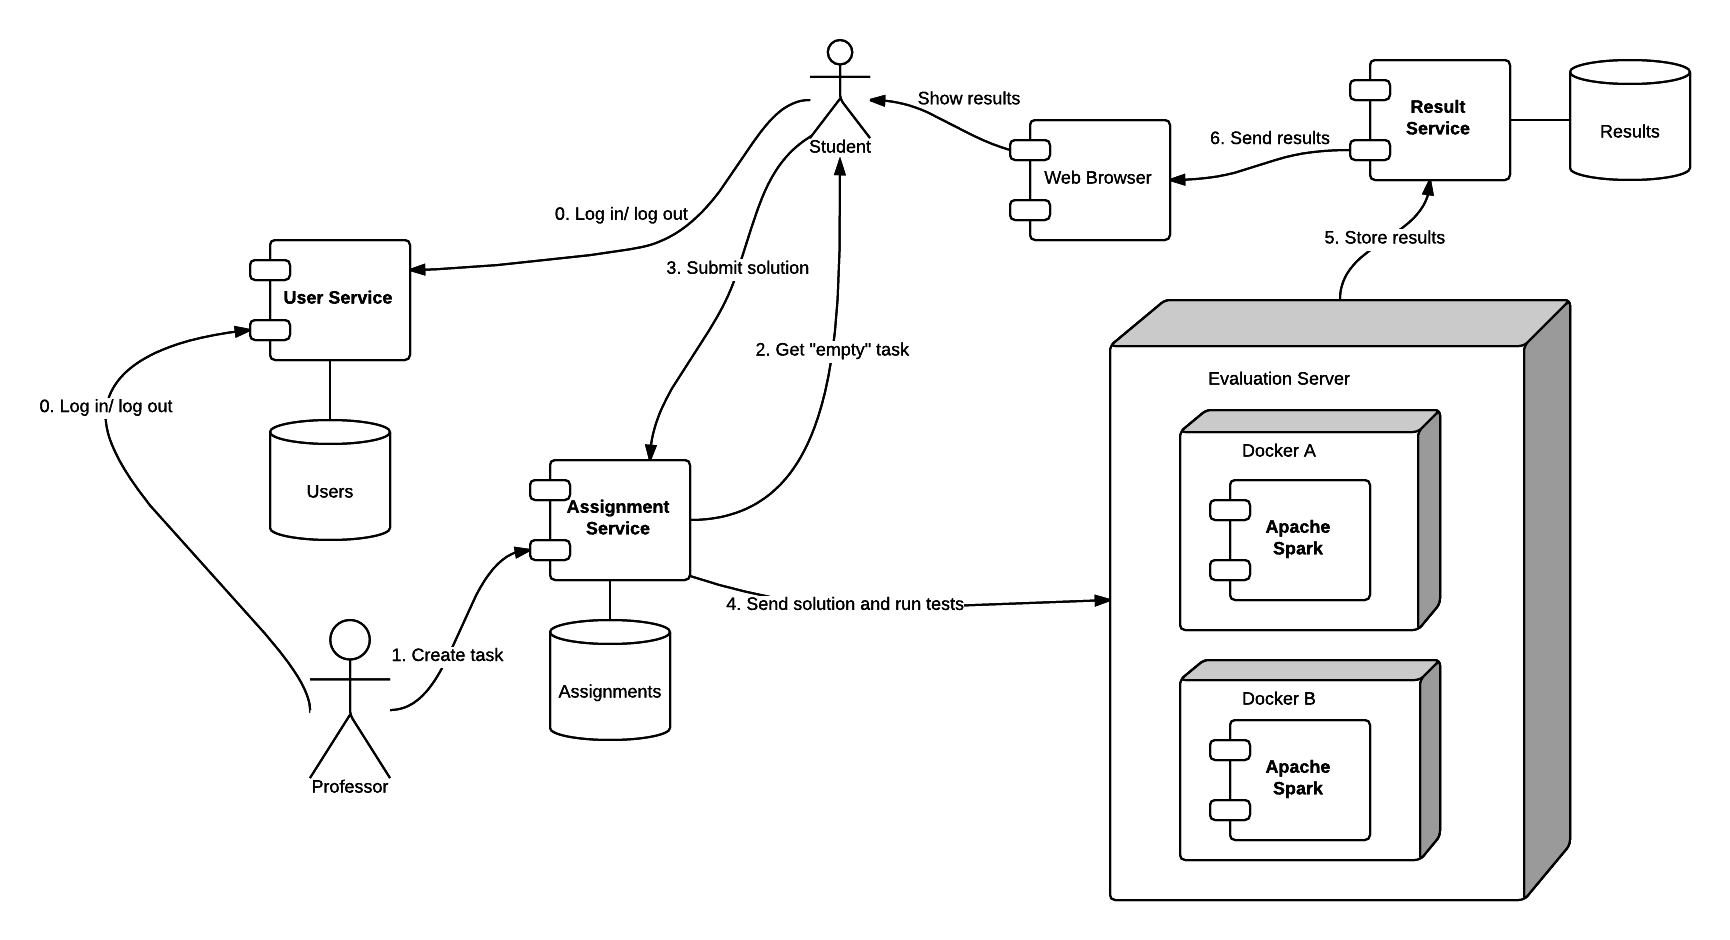
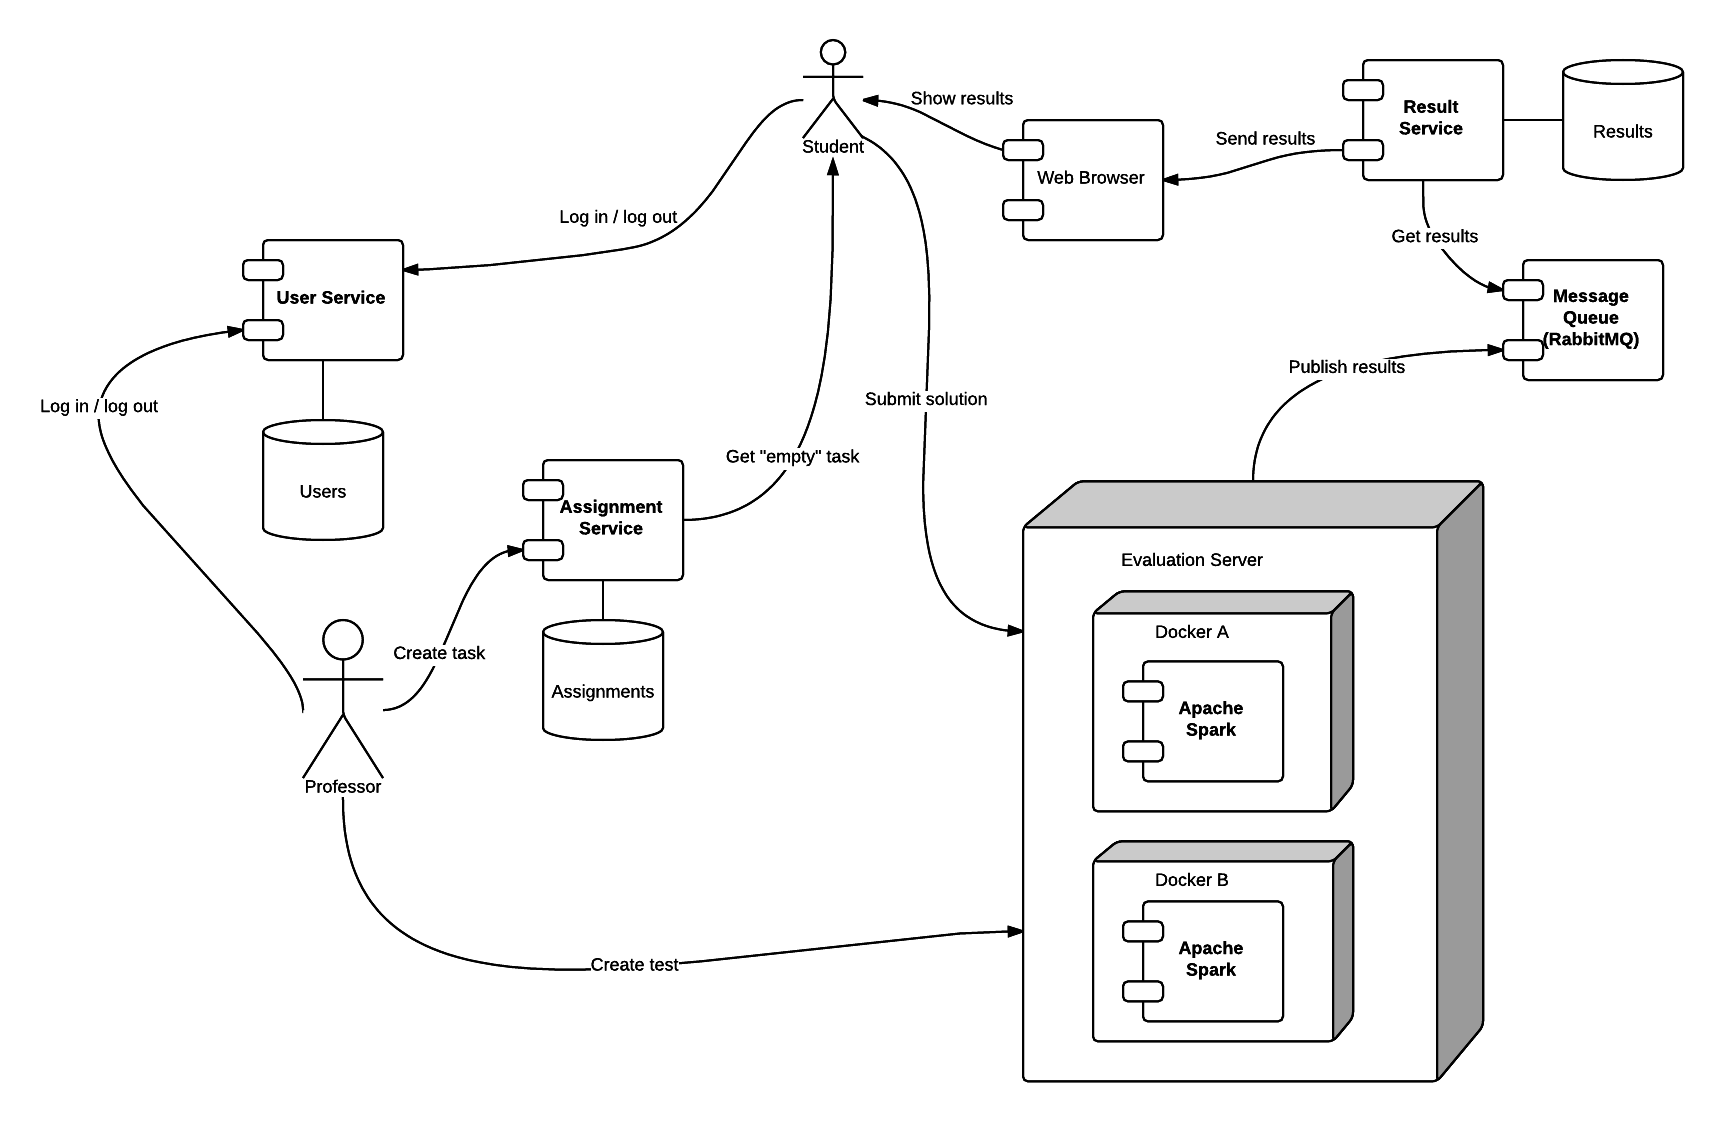
Docs upgraded

diff --git a/README.md b/README.md
@@ -14,7 +14,8 @@ Celem projektu Testify jest stworzenie platformy, która umożliwi udostępniani
 - Spring MVC
 - Spring Boot
 - Spring Cloud
-- Spring AOP
+- Vaadin
+- RabbitMQ
 - Apache Spark
 - Docker
 - PostgreSQL
@@ -31,16 +32,20 @@ Rys. 1 prezentuje planowaną architekturę systemu oraz komunikację klientów i
 
 Komunikacja klientów z systemem (logowanie, publikacja/pobranie zadań, wysyłanie rozwiązań, wyświetlenie wyników) odbywa się przy pomocy przeglądarki internetowej.
 
-Część serwerowa składa się z 3 mikroserwisów i Środowiska Wykonawczego (Evaluation server). Serwisy (każdy ma swoją bazę danych zaznaczoną w nawiasie):
+Część serwerowa składa się z 3 mikroserwisów, Środowiska Wykonawczego (Evaluation server) oraz Klienta. Serwisy (każdy ma swoją bazę danych zaznaczoną w nawiasie):
 - User service (PostgreSQL) - umożliwia logowanie do systemu, przydziela token sesji,
-- Assignment Service (MongoDB) - umożliwia dodawanie/pobieranie zadań oraz odbiera rozwiązania od Studenta,
+- Assignment Service (MongoDB) - umożliwia dodawanie/pobieranie zadań,
 - Result Service (PostgreSQL) - umożliwia pobieranie informacji o wynikach za zadania dla poszczególnych Studentów.
 
-Środowisko Wykonawcze to komponent odpowiedzialny za uruchamianie i ocenę rozwiązań (w postaci plików .jar) nadesłanych przez Studentów. Na nadesłanym kodzie wykonuje szereg operacji:
+Środowisko Wykonawcze to komponent odpowiedzialny za odbieranie rozwiązania od Studenta, uruchamianie i ocenę rozwiązań (w postaci plików .jar) nadesłanych przez Studentów. To tutaj również Prowadzący wysyła testy dla zadań. Na nadesłanym kodzie wykonuje szereg operacji:
 - przepuszczenie przez testy przygotowane przez Prowadzącego,
 - pomiar czasu rozwiązania, co umożliwi tworzenie list rankingowych,
 - wykrywanie plagiatów w porównaniu do rozwiązań innych Studentów (opcjonalne).
 
+Gdy Środowisko wykonawcze przetworzy zadanie, publikuje wynik do kolejki RabbitMQ, z której odbiera go Result Service.
+
+Klient jest osobnym serwisem zapewniającym graficzny interfejs użytkownika (w przeglądarce internetowej) i fasadę dla komunikacji użytkownika z serwisami. Jest także odpowiedzialny za load balancing.
+
 ### Techniki komponentowe
 - Spring MVC - podstawowy framework, który zostanie użyty. W ramach projektu ma powstać także aplikacja webowa, służąca jako interfejs dla użytkownika,
-- AOP - programowanie aspektowe wykorzystamy do logowania informacji oraz do implementacji systemu rozszerzeń - tj. definicji operacji, które Środowisko Wykonawcze wykona na nadesłanym rozwiązaniu. 
+- Podział systemu na mikroserwisy komunikujące się ze sobą asynchronicznie.
